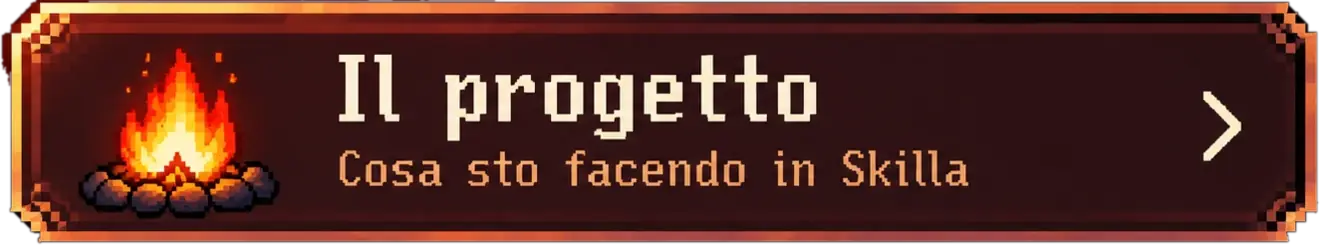
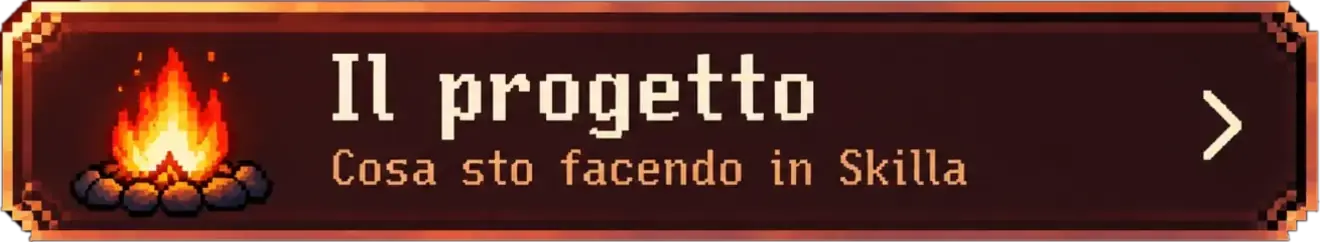
Home: i tre pannelli del menu allineati sullo stesso bordo; la voce selezionata non si sposta più
Claude-Session: https://claude.ai/code/session_01Ly8M64WoiNxbZKkFq6qyb5

diff --git a/index.html b/index.html
@@ -134,15 +134,15 @@
 
             <nav class="game-menu" aria-label="Menu principale">
                 <a href="#viaggio" class="menu-item is-selected">
-                    <img src="immagini/menu-progetto.webp" alt="" width="1320" height="245">
+                    <img src="immagini/menu-progetto.webp" alt="" width="1320" height="242">
                     <span class="visually-hidden">Il progetto: cosa sto facendo in Skilla</span>
                 </a>
                 <a href="#livelli" class="menu-item">
-                    <img src="immagini/menu-diario.webp" alt="" width="1320" height="245">
+                    <img src="immagini/menu-diario.webp" alt="" width="1320" height="242">
                     <span class="visually-hidden">Diario: la mia esperienza settimana per settimana</span>
                 </a>
                 <a href="#personaggio" class="menu-item">
-                    <img src="immagini/menu-chi-sono.webp" alt="" width="1320" height="245">
+                    <img src="immagini/menu-chi-sono.webp" alt="" width="1320" height="242">
                     <span class="visually-hidden">Chi sono: il mio percorso e le mie competenze</span>
                 </a>
             </nav>

diff --git a/css/pixel.css b/css/pixel.css
@@ -507,9 +507,9 @@ body.nav-floating .world .header {
     image-rendering: pixelated;
 }
 
-/* Voce selezionata: il pannello avanza di un passo e si illumina */
+/* Voce selezionata: il pannello si illumina, senza spostarsi,
+   così i tre pannelli restano sempre allineati */
 .menu-item.is-selected {
-    transform: translateX(calc(var(--u) * 8));
     filter:
         brightness(1.15)
         drop-shadow(0 0 calc(var(--u) * 10) rgba(255, 207, 74, 0.45))
@@ -638,10 +638,6 @@ body.nav-floating .world .header {
         width: calc(var(--u) * 404);
         margin-top: calc(var(--u) * 24);
         gap: calc(var(--u) * 10);
-    }
-
-    .menu-item.is-selected {
-        transform: translateX(calc(var(--u) * 4));
     }
 }
 
